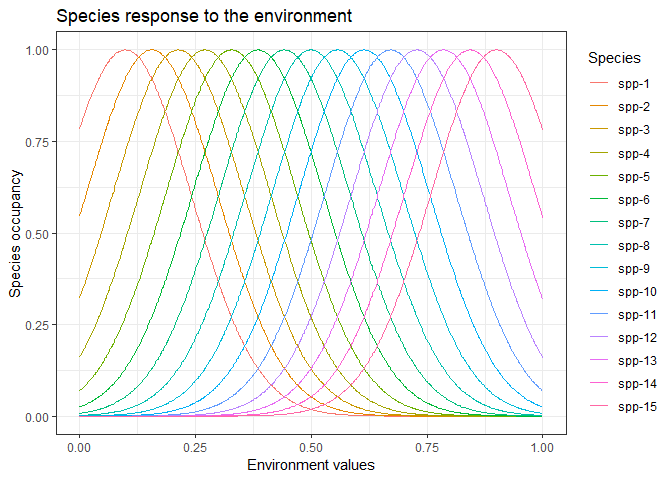
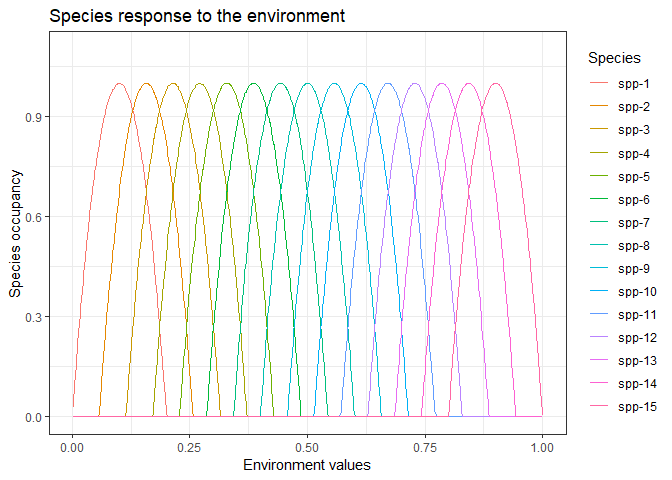
Updated the edits to formula. Also, quadratic gives negative values for occupancy out of niche breadth, made that be equal to zero?

diff --git a/aboutScripts-FAQ/environmentOnSpeciesOccupancy.md b/aboutScripts-FAQ/environmentOnSpeciesOccupancy.md
@@ -21,74 +21,13 @@ S_f <- function(E, u_c, s_c) {
 }
 ```
 
-The original parameters
-
-``` r
-D <- 1
-R <- 15
-
-u_c <- matrix(nrow = D, ncol = R)
-u_c[1,] <- seq(0.1, 0.9, length = R)
-
-s_c <- matrix(0.2, nrow = D, ncol = R)
-
-E <- readRDS("testingHMSCv2/outputs/fixedLandscapes/orig-no-seed-E.RDS")
-```
-
-Result: effect on environment on the local performance and colonization:
-
-``` r
-data <- S_f(E = E, u_c = u_c, s_c = s_c)
-```
-
-We get a matrix in which each row is a site, with it's environmental variable, and each column is a species. When I look at these, they don't look normal. So, now I'm confused.
-
-``` r
-hist(data[,3])
-```
-
-![](environmentOnSpeciesOccupancy_files/figure-markdown_github/unnamed-chunk-3-1.png)
-
-Edit the data structure so I can use ggplot:
-
-``` r
-longformatData <- as.data.frame(data, row.names = c(1:1000)) %>% 
-  set_names(., c(paste0("spp-", 1:15))) %>% 
-  mutate(., Evalues = E) %>% 
-  gather(., key = "Species", value = "occupancy", -Evalues) %>% 
-  mutate(., Species = factor(Species, levels = unique(Species)))
-```
-
-With organized data I can plot it and see by species:
-
-``` r
-longformatData %>% 
-  ggplot(., aes(x = Evalues, y = occupancy, color = Species)) +
-  geom_line() +
-  labs(title = "Species response to the environment",
-       x = "Environment values", 
-       y = "Species occupancy") +
-  theme_bw()
-```
-
-![](environmentOnSpeciesOccupancy_files/figure-markdown_github/unnamed-chunk-5-1.png)
+![](environmentOnSpeciesOccupancy_files/figure-markdown_github/unnamed-chunk-2-1.png)
 
 Same data, different visualization:
 
-``` r
-longformatData %>% 
-  ggplot(., aes(x = Evalues, y = occupancy, group = Species)) +
-  geom_line() +
-  labs(title = "Species response to the environment",
-       x = "Environment values", 
-       y = "Species occupancy") +
-  theme_bw() +
-  facet_wrap(~Species)
-```
+![](environmentOnSpeciesOccupancy_files/figure-markdown_github/unnamed-chunk-3-1.png)
 
-![](environmentOnSpeciesOccupancy_files/figure-markdown_github/unnamed-chunk-6-1.png)
-
-Now, the task is to change this to a parabola instead. I need to define the maximum amplitude to be 1, as the maximum occupancy... and I guess we need to determine the other values as to how spread it will be? based on the breadth. Seems straightforward.
+Change the response to a quadratic function instead. I used a vertex form, *y* = *a*(*x* − *h*)+*k*, for which I defined the vertex to be at x = niche optima and y = maximum occupancy(1). The roots of the parabola are set to the minimum and maximum niche values based on the niche spread.
 
 ``` r
 # Environment -------------------------------------------------------------
@@ -102,46 +41,14 @@ S_f_v2 <- function(E, u_c, s_c) {
   for(i in 1:D){
     optima <- matrix(u_c[i,],nrow = N,ncol = R,byrow = TRUE)
     breadth <- matrix(s_c[i,],nrow = N,ncol = R,byrow = TRUE)
-    S <- S * ((-1 / (0.5 * breadth)^2) * (E[,i]-optima)^2 + 1)
+    S <- S * ((-1 / (breadth/2)^2) * (E[,i] - optima)^2 + 1)
   }
   return(S)
 }
 ```
 
-Generate data
-
-``` r
-data <- S_f_v2(E = E, u_c = u_c, s_c = s_c)
-
-
-longformatData_v2 <- as.data.frame(data, row.names = c(1:1000)) %>% 
-  set_names(., c(paste0("spp-", 1:15))) %>% 
-  mutate(., Evalues = E) %>% 
-  gather(., key = "Species", value = "occupancy", -Evalues) %>% 
-  mutate(., Species = factor(Species, levels = unique(Species)))
-```
-
 Plot
 
-``` r
-longformatData_v2 %>% 
-  ggplot(., aes(x = Evalues, y = occupancy, color = Species)) +
-  geom_line() +
-  labs(title = "Species response to the environment",
-       x = "Environment values", 
-       y = "Species occupancy") +
-  theme_bw()
-```
+![](environmentOnSpeciesOccupancy_files/figure-markdown_github/unnamed-chunk-5-1.png)
 
-![](environmentOnSpeciesOccupancy_files/figure-markdown_github/unnamed-chunk-8-1.png)
-
-``` r
-ggplot(data = data.frame(x = seq(from = 0, to = 0.45, by = 0.01)), aes(x = x)) +
-  stat_function(fun = function(x){(-1/0.01) * (x-0.3)^2 + 1}) +
-  lims(y = c(0,1.1), x = c(0, 0.45)) +
-  geom_hline(yintercept = 1, color = "red")
-```
-
-    ## Warning: Removed 57 rows containing missing values (geom_path).
-
-![](environmentOnSpeciesOccupancy_files/figure-markdown_github/testSimpleParabola-1.png)
+![](environmentOnSpeciesOccupancy_files/figure-markdown_github/unnamed-chunk-6-1.png)
